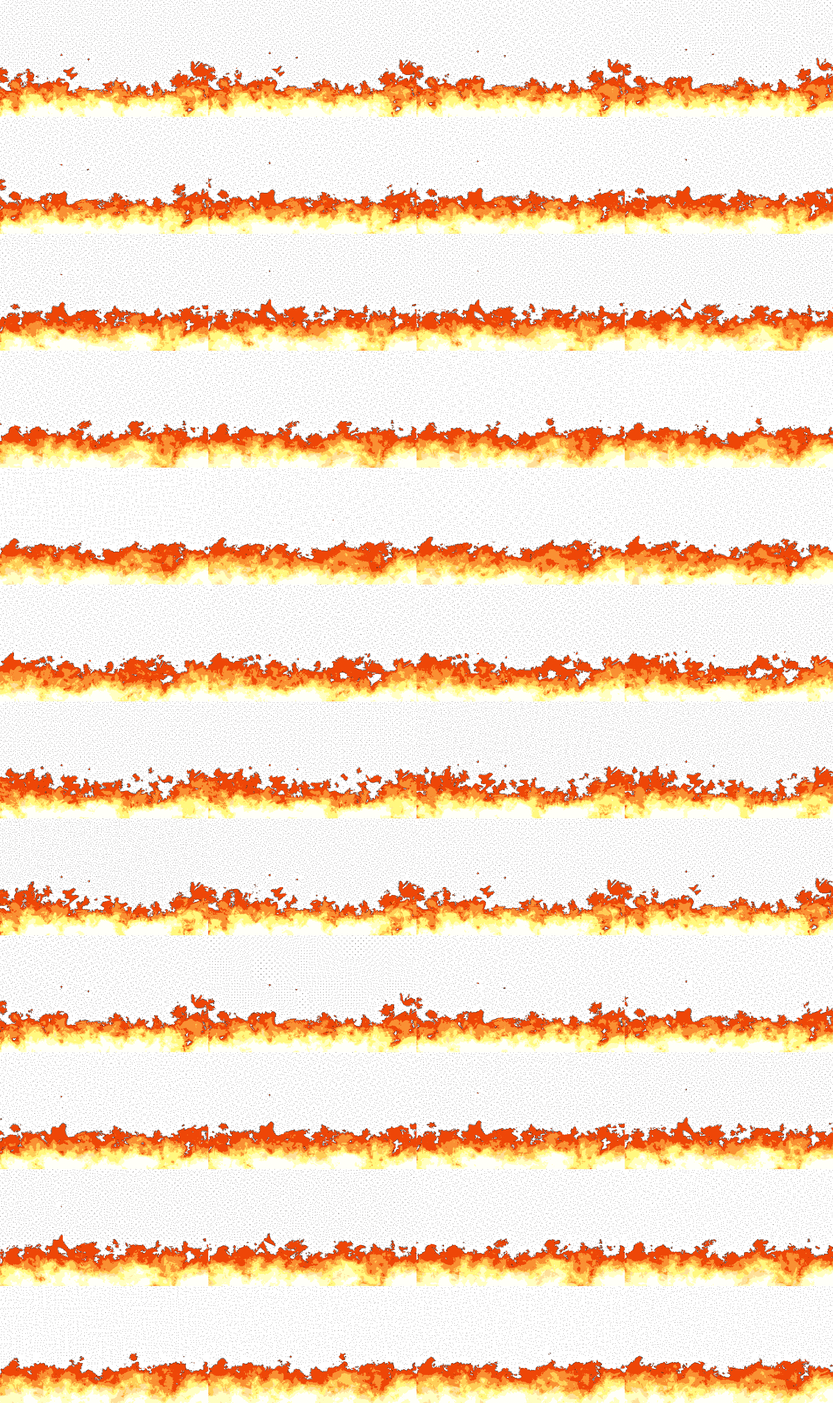
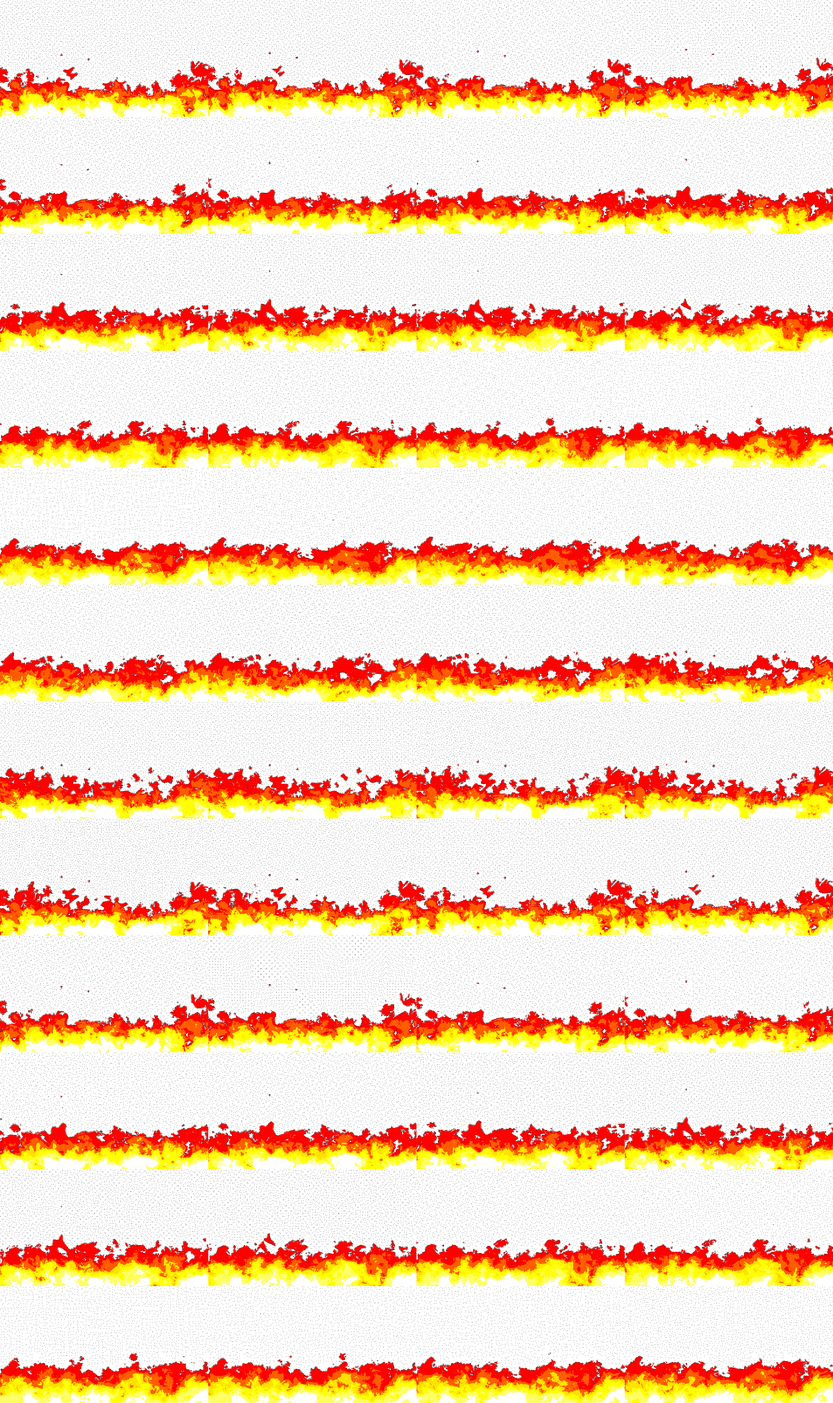
Nouvelle texture de lave animée

diff --git a/src/game_view.cpp b/src/game_view.cpp
@@ -4,7 +4,7 @@
 using namespace std;
 using namespace sf;
 
-GameView::GameView(WindowRunner &window, GameModel &model, Player &player) : window(window), game_model(model), fire(20.0), fire2(20.0), player(player)
+GameView::GameView(WindowRunner &window, GameModel &model, Player &player) : window(window), game_model(model), fire(20.0), fire2(20.0), lava(20.0), player(player)
 {
     int i;
     for(i = 0; i < CHUNK_PRELOAD; i++)
@@ -15,7 +15,7 @@ GameView::GameView(WindowRunner &window, GameModel &model, Player &player) : win
     }
 
     assert(this->fire_texture.loadFromFile(FIRE_ANIM));
-    this->fire.setTexture(fire_texture);
+    this->fire.setTexture(this->fire_texture);
 
     int j;
     for(i = 0; i < 12; i++)
@@ -38,6 +38,14 @@ GameView::GameView(WindowRunner &window, GameModel &model, Player &player) : win
 
     assert(this->lava_texture.loadFromFile(LAVA_IMG));
     this->lava.setTexture(this->lava_texture);
+
+    for(i = 0; i < 7; i++)
+        this->lava.addClip(IntRect(130*i, 112, 128, 128));
+
+    for(i = 0; i < 4; i++)
+        this->lava.addClip(IntRect(130*i, 114+128, 128, 128));
+
+    this->lava.setOffset(2, 2);
 }
 
 GameView::~GameView()
@@ -120,15 +128,21 @@ void GameView::update()
 
 
     //Lave
+    this->lava.update();
     this->lava_sprites.clear();
     int lava_w = this->lava.getLocalBounds().width;
-    int nb_lava = (DEAD_LINE_DEFAULT + this->game_model.getFireOffset()) / lava_w + 1; //+1 car il c'est une division entière et il y aura des demi-blocs de lave
+    int lava_h = this->lava.getLocalBounds().height;
+    int nb_lava_x = (DEAD_LINE_DEFAULT + this->game_model.getFireOffset()) / lava_w + 1; //+1 car il c'est une division entière et il y aura des demi-blocs de lave
+    int nb_lava_y = VIEW_HEIGHT / lava_h + 1;
 
-    int i;
-    for(i = 0; i < nb_lava; i++)
+    int i, j;
+    for(i = 0; i < nb_lava_x; i++)
     {
-        this->lava.setPosition(this->game_model.getFireOffset()-(i+1)*lava_w, 0);
-        this->lava_sprites.push_back(this->lava);
+        for(j = 0; j < nb_lava_y; j++)
+        {
+            this->lava.setPosition(this->game_model.getFireOffset()-(i+1)*lava_w, j*lava_h);
+            this->lava_sprites.push_back(this->lava);
+        }
     }
 }
 

diff --git a/src/game_view.h b/src/game_view.h
@@ -9,6 +9,7 @@
 #include "animation.h"
 #include "game_model.h"
 #include "player.h"
+#include "animation.h"
 
 class WindowRunner;
 
@@ -35,14 +36,14 @@ private:
     Animation fire, fire2;
 
     sf::Texture lava_texture;
-    sf::Sprite lava;
+    Animation lava;
 
     Player &player;
 
     sf::Font score_font;
     sf::Text score_display;
 
-    std::vector<sf::Sprite> lava_sprites;
+    std::vector<Animation> lava_sprites;
 };
 
 #endif //GAMEVIEW_H
